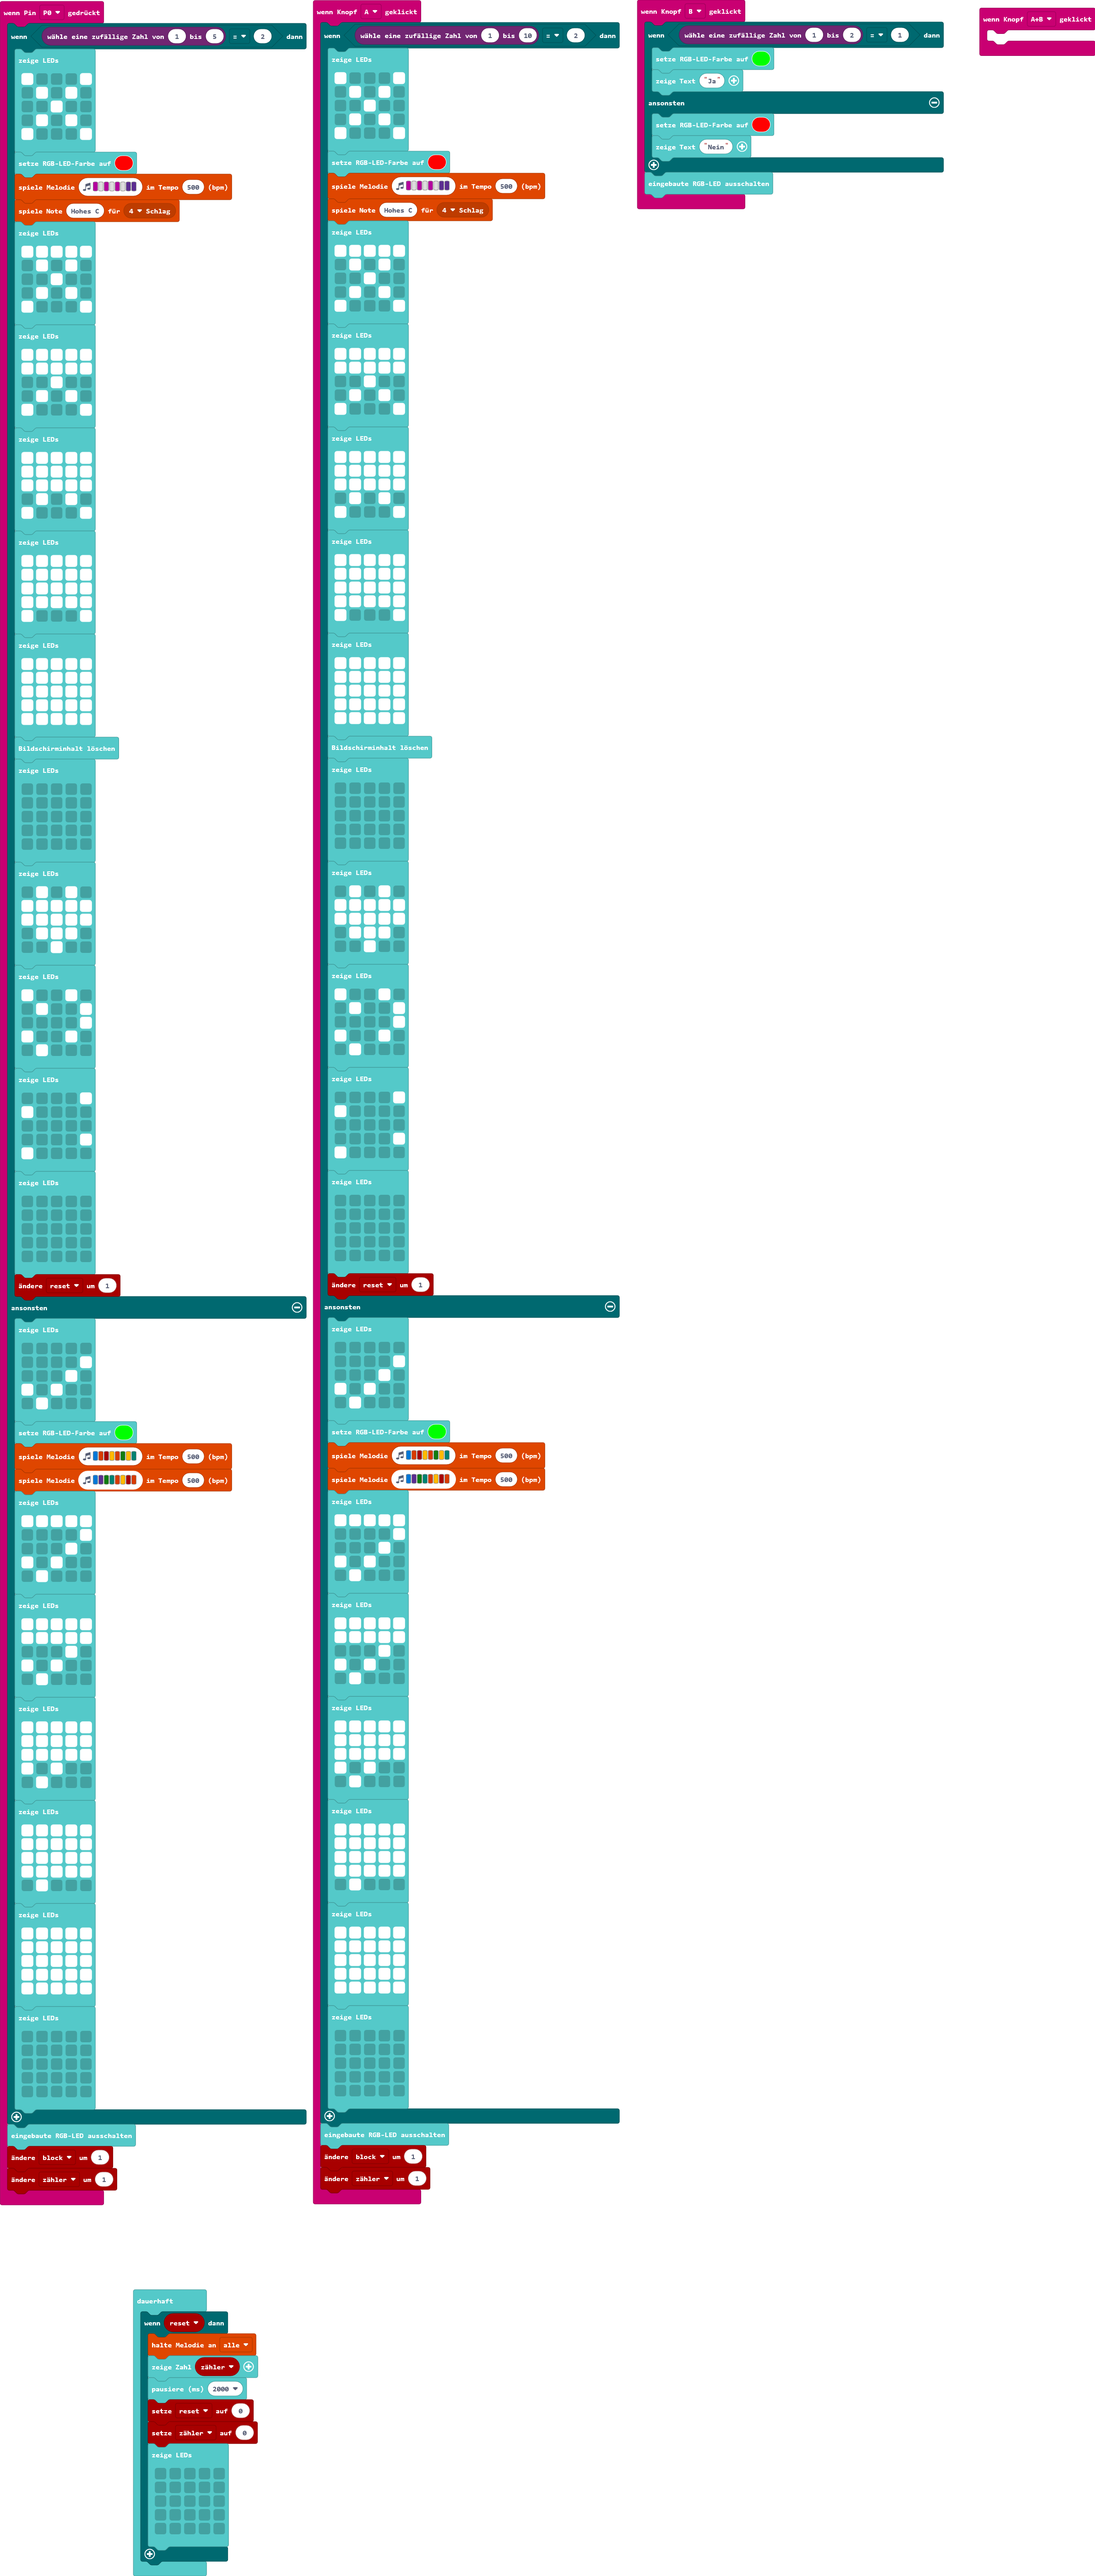
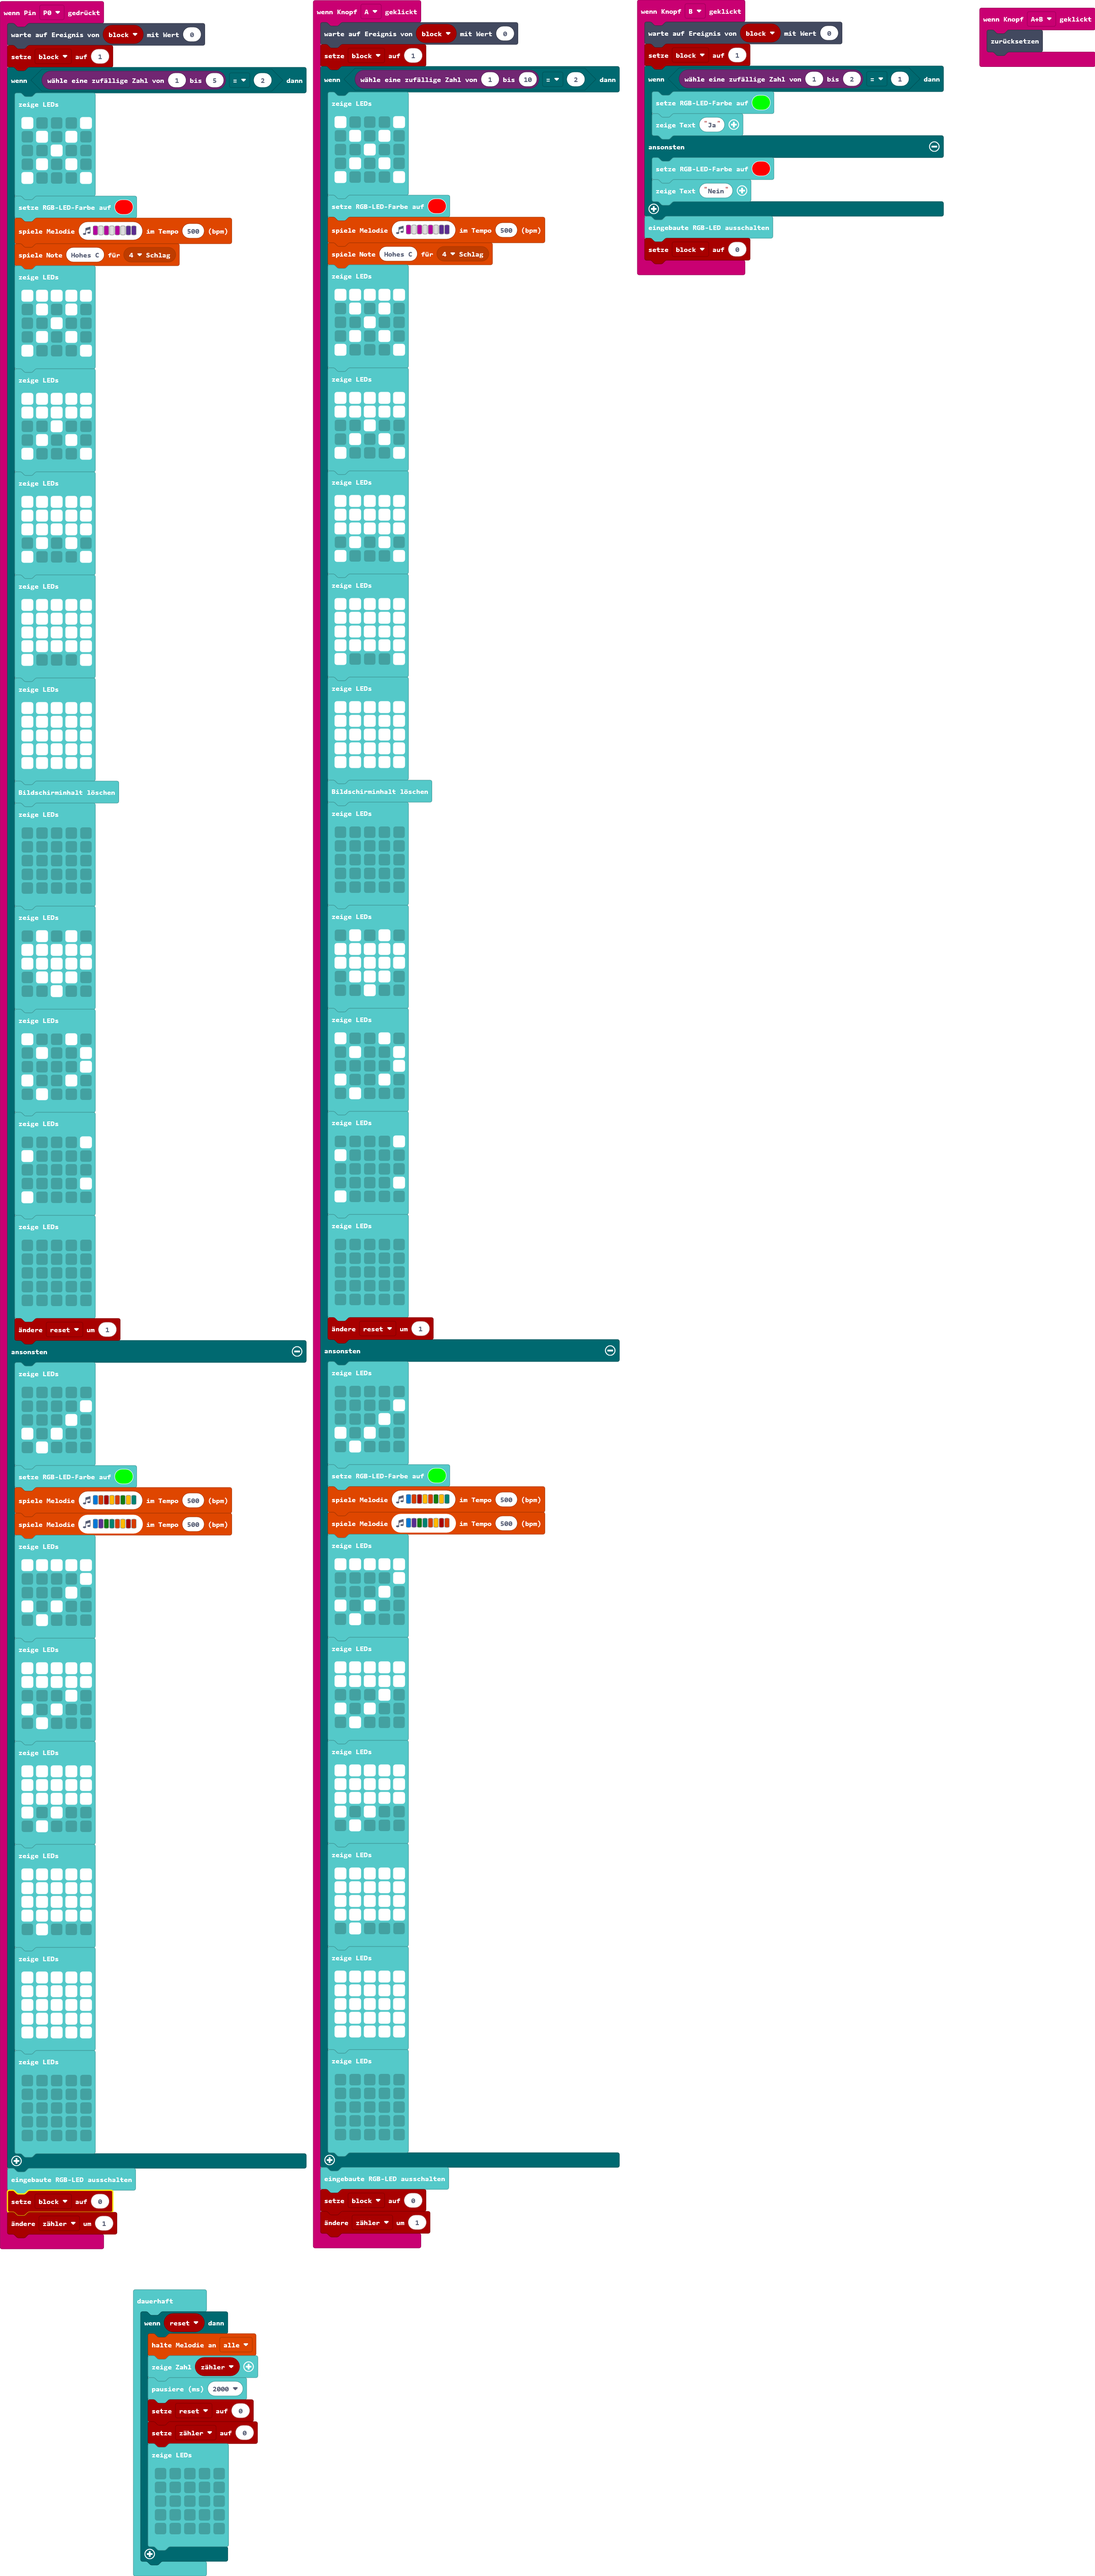
bloke

Changed region(s): [[0.0, 0.0, 0.8662, 0.8714], [0.8972, 0.0, 1.0, 0.0311]]

diff --git a/main.ts b/main.ts
@@ -1,7 +1,9 @@
-let reset = 0
 let block = 0
+let reset = 0
 let zähler = 0
 input.onPinPressed(TouchPin.P0, function () {
+    control.waitForEvent(block, 0)
+    block = 1
     if (randint(1, 5) == 2) {
         basic.showLeds(`
             # . . . #
@@ -140,10 +142,12 @@ input.onPinPressed(TouchPin.P0, function () {
             `)
     }
     basic.turnRgbLedOff()
-    block += 1
+    block = 0
     zähler += 1
 })
 input.onButtonPressed(Button.A, function () {
+    control.waitForEvent(block, 0)
+    block = 1
     if (randint(1, 10) == 2) {
         basic.showLeds(`
             # . . . #
@@ -282,13 +286,15 @@ input.onButtonPressed(Button.A, function () {
             `)
     }
     basic.turnRgbLedOff()
-    block += 1
+    block = 0
     zähler += 1
 })
 input.onButtonPressed(Button.AB, function () {
-	
+    control.reset()
 })
 input.onButtonPressed(Button.B, function () {
+    control.waitForEvent(block, 0)
+    block = 1
     if (randint(1, 2) == 1) {
         basic.setLedColor(0x00ff00)
         basic.showString("Ja")
@@ -297,6 +303,7 @@ input.onButtonPressed(Button.B, function () {
         basic.showString("Nein")
     }
     basic.turnRgbLedOff()
+    block = 0
 })
 basic.forever(function () {
     if (reset) {
